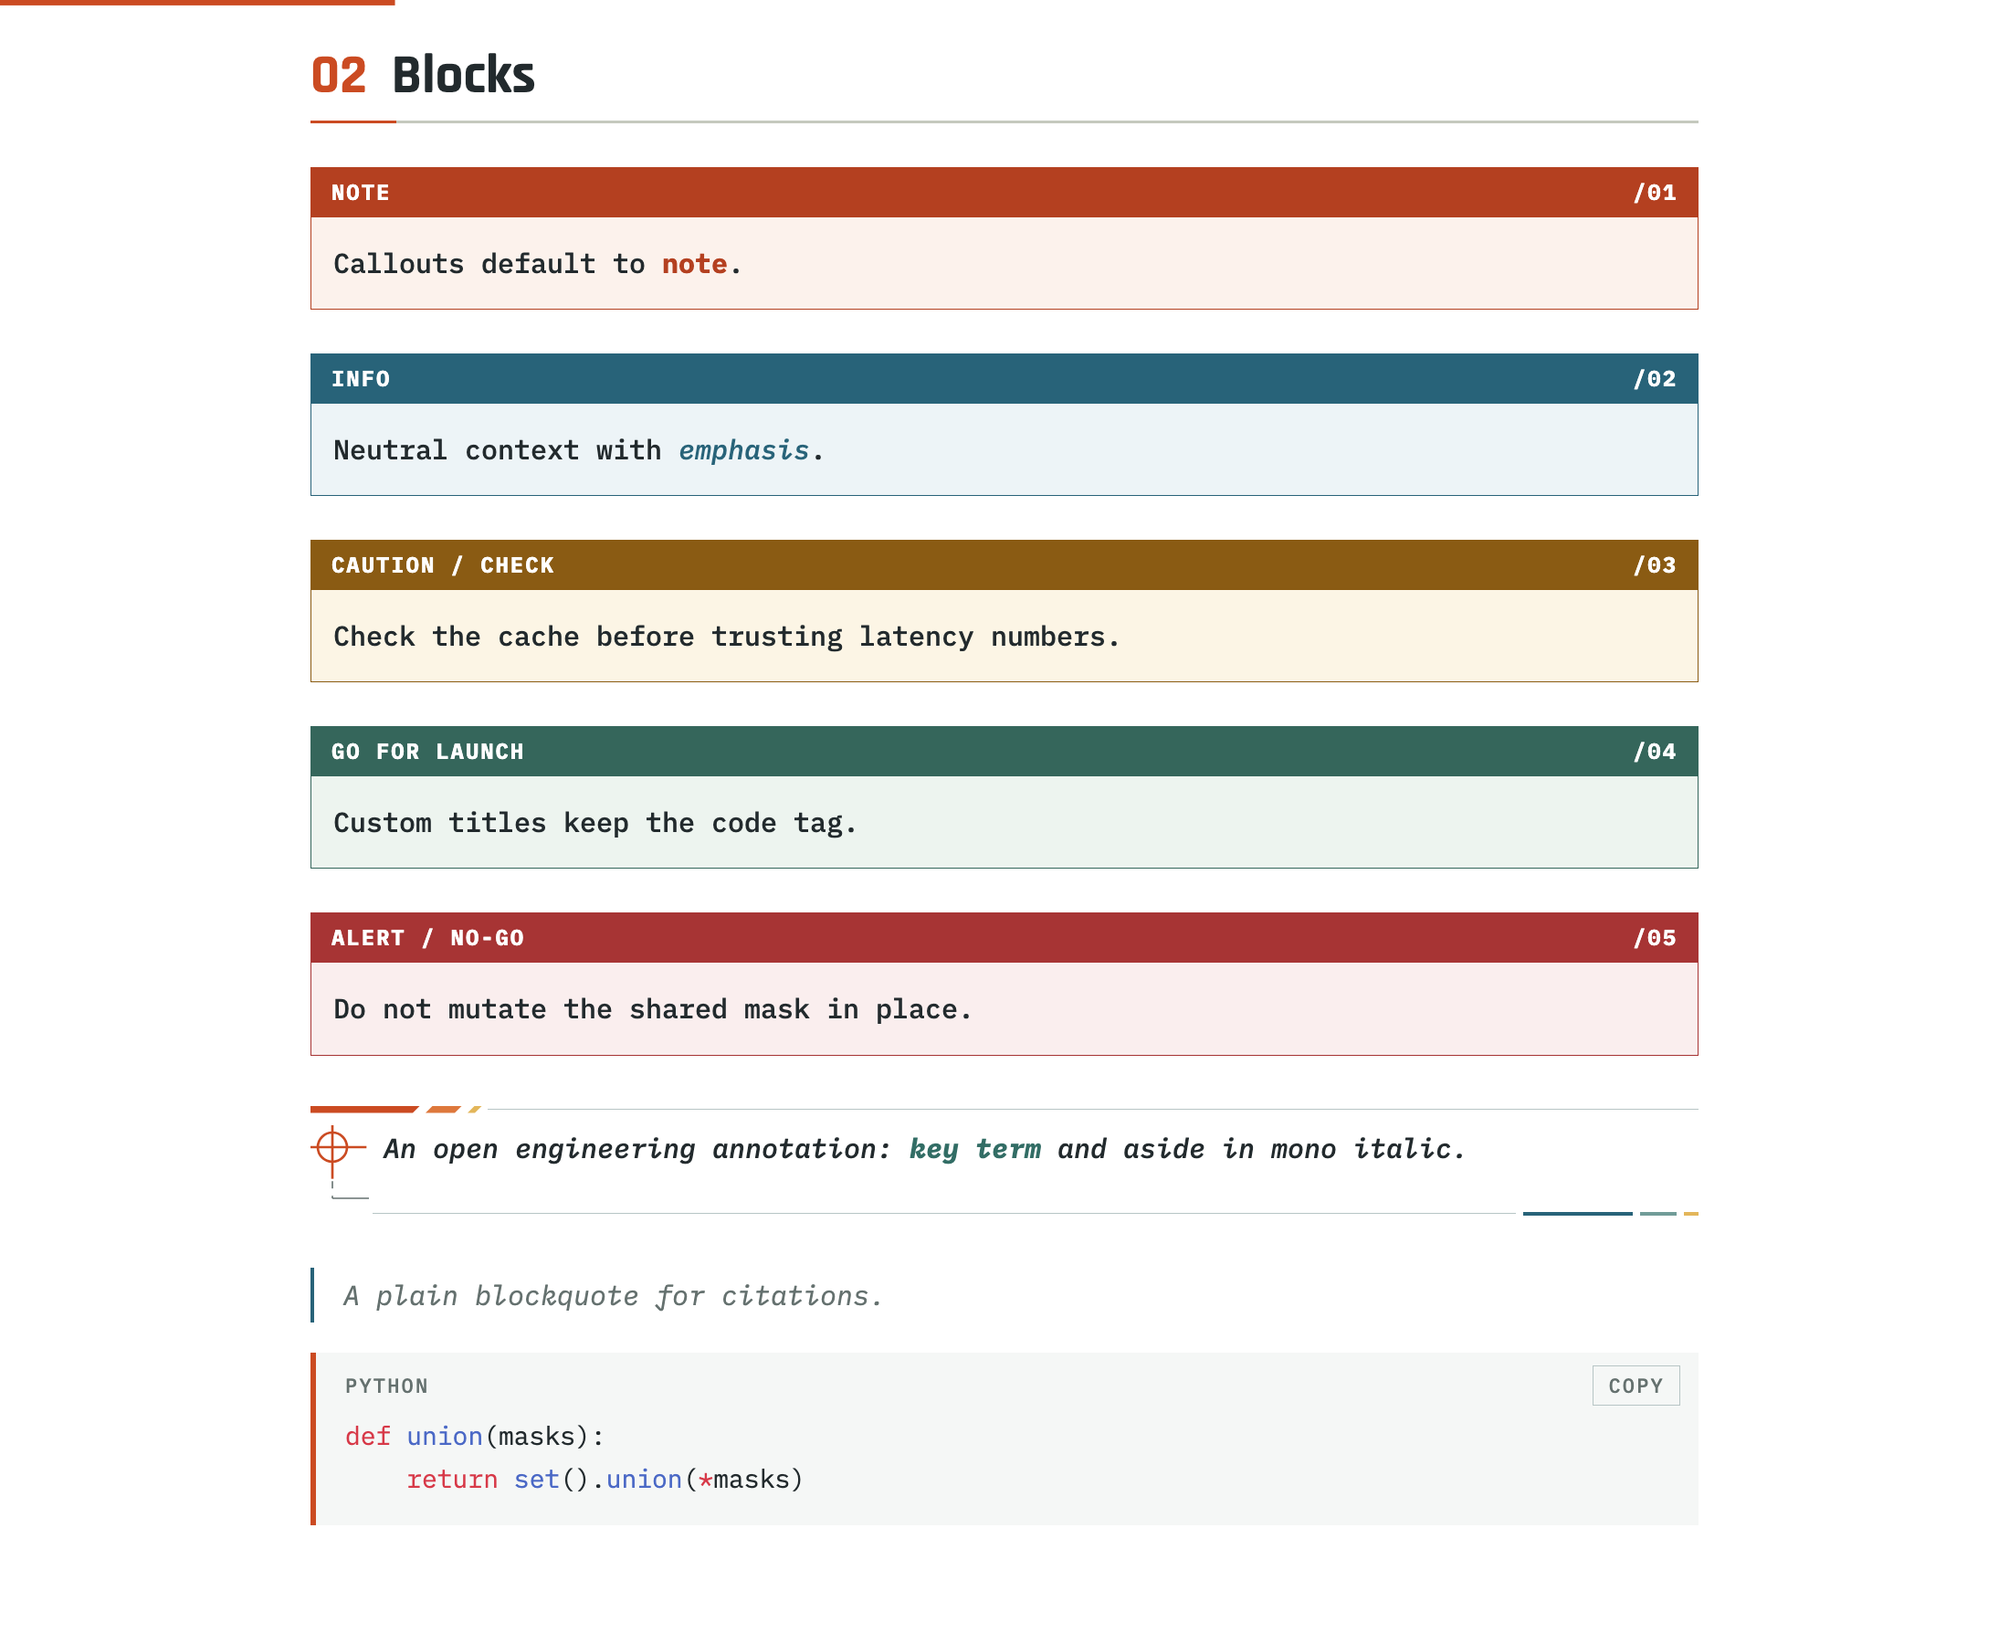
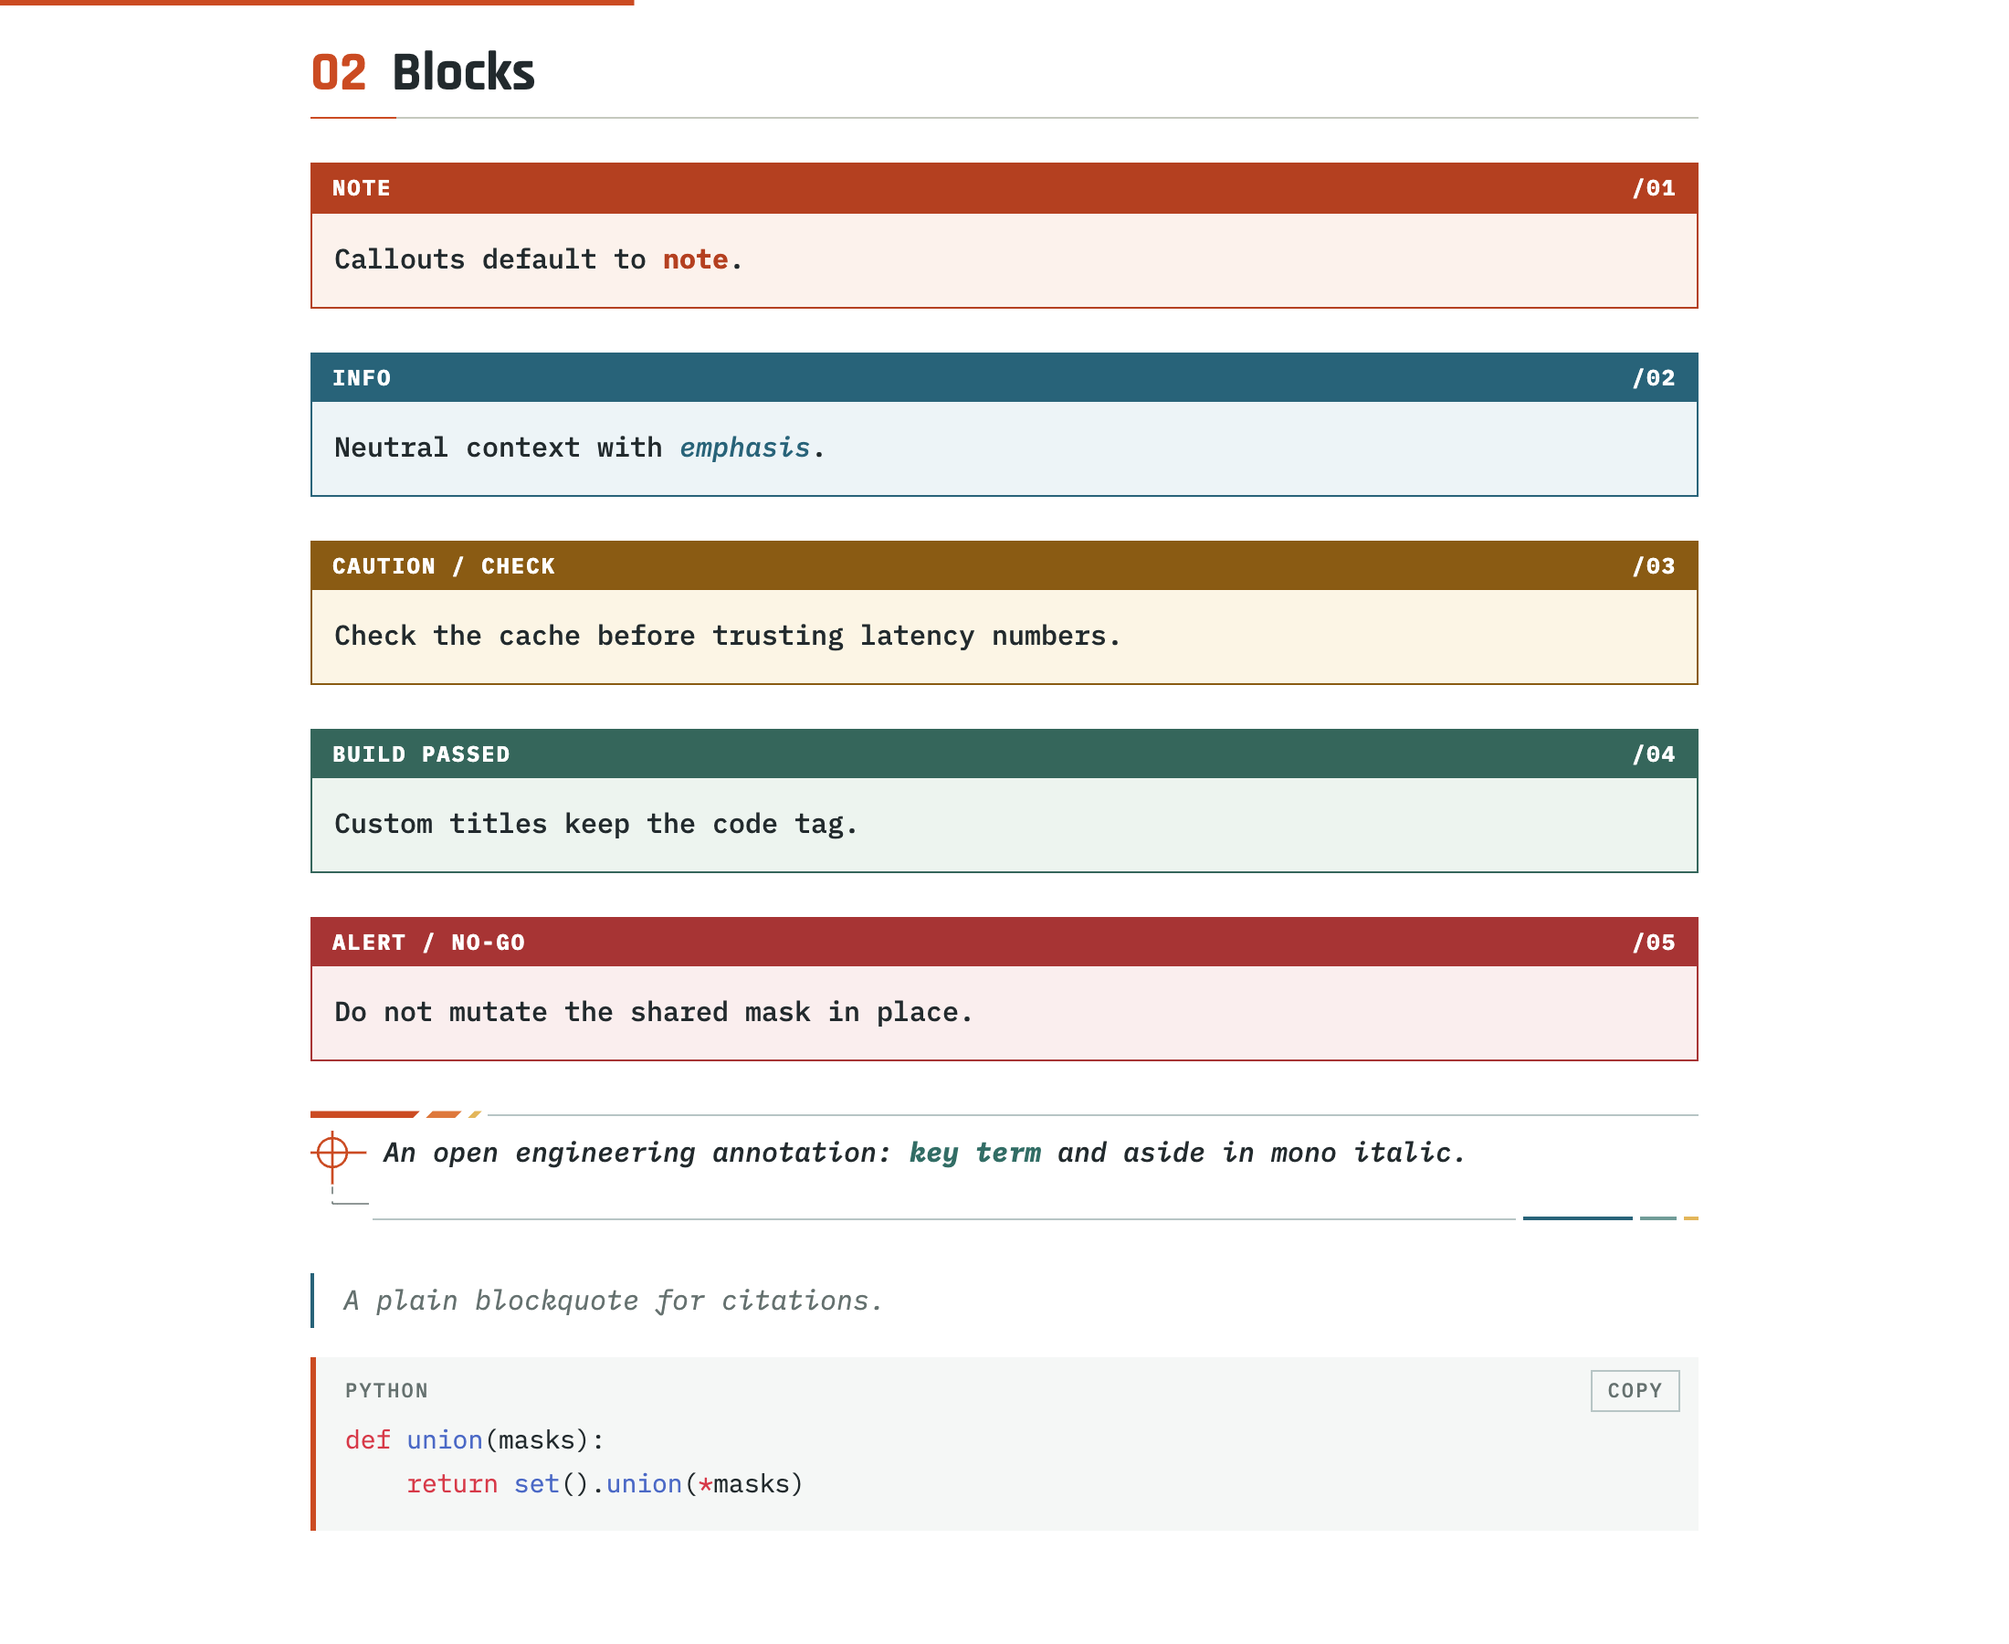
docs: rewrite README features in plain terms and refresh screenshots

diff --git a/README.md b/README.md
@@ -4,9 +4,9 @@
 
 # NASApunk
 
-**A blog theme for [Tola](https://github.com/tola-rs/tola-ssg), built on the NASApunk design.**
+**A NASApunk-style blog theme for [Tola](https://github.com/tola-rs/tola-ssg).**
 
-Document numbers, mission-time archives, telemetry-channel tags and figures drawn by Typst, in a muted aerospace palette for day and night.
+Write posts in Typst. Figures, diagrams and math render as inline SVG in the theme colours, by day and by night.
 
 [![Build](https://github.com/KKKZOZ/tola-theme-nasapunk/actions/workflows/build.yml/badge.svg)](https://github.com/KKKZOZ/tola-theme-nasapunk/actions/workflows/build.yml)
 [![Tola](https://img.shields.io/badge/Tola-0.8%2B-cb4b22)](https://github.com/tola-rs/tola-ssg)
@@ -15,7 +15,7 @@ Document numbers, mission-time archives, telemetry-channel tags and figures draw
 
 **English** · [简体中文](README.zh-CN.md)
 
-**[Live demo](https://kkkzoz.github.io/tola-theme-nasapunk/)** · [Quick start](#quick-start) · [Features](#features) · [Gallery](#gallery) · [Configuration](#configuration) · [Writing](#writing-posts) · [Deployment](#deployment)
+**[Live demo](https://kkkzoz.github.io/tola-theme-nasapunk/)**
 
 <br>
 
@@ -28,19 +28,19 @@ Document numbers, mission-time archives, telemetry-channel tags and figures draw
 <table>
   <tr>
     <td width="33%" valign="top">
-      <img src="docs/features/report.png" alt="Post header with document control block"><br>
-      <b>Report header</b><br>
-      <sub>Doc number, date, GMT day and reading time on every post.</sub>
+      <img src="docs/features/report.png" alt="Post header with document number and date"><br>
+      <b>Post header</b><br>
+      <sub>Document number, date, day of year and reading time on every post.</sub>
     </td>
     <td width="33%" valign="top">
-      <img src="docs/features/archive.png" alt="Archive density chart"><br>
-      <b>Flight-log archive</b><br>
-      <sub>Years in mission time over a posts-per-month chart.</sub>
+      <img src="docs/features/archive.png" alt="Archive page with a posts-per-month chart"><br>
+      <b>Archive</b><br>
+      <sub>Posts grouped by year, with a posts-per-month chart.</sub>
     </td>
     <td width="33%" valign="top">
-      <img src="docs/features/tags.png" alt="Tag channel index"><br>
-      <b>Channel-index tags</b><br>
-      <sub>Every tag a channel, with a level meter.</sub>
+      <img src="docs/features/tags.png" alt="Tags page"><br>
+      <b>Tags</b><br>
+      <sub>Every tag with its post count and posts.</sub>
     </td>
   </tr>
   <tr>
@@ -57,7 +57,7 @@ Document numbers, mission-time archives, telemetry-channel tags and figures draw
     <td width="33%" valign="top">
       <img src="docs/features/callouts.png" alt="Callouts"><br>
       <b>Callouts</b><br>
-      <sub>Five instrument-panel kinds, plus annotations.</sub>
+      <sub>Five kinds, plus annotations.</sub>
     </td>
   </tr>
   <tr>
@@ -74,59 +74,37 @@ Document numbers, mission-time archives, telemetry-channel tags and figures draw
     <td width="33%" valign="top">
       <img src="docs/features/lost.png" alt="404 page"><br>
       <b>404</b><br>
-      <sub>A loss-of-signal page for missing addresses.</sub>
+      <sub>A custom page for missing addresses.</sub>
     </td>
   </tr>
 </table>
 
-Also: day / night theme that follows the system · endnotes · copy buttons on
-code and headings · reading progress bar · Open Graph tags · build-time checks
-for links, images and anchors · a layout that holds down to phone width.
+The theme also follows the system's day / night setting, collects footnotes
+as endnotes, adds copy buttons to code blocks and headings, and fails the
+build on broken links, images and section anchors.
 
-## Gallery
+## Screenshots
 
 <table>
   <tr>
     <td width="50%"><img src="docs/screenshots/post.png" alt="Post page"></td>
-    <td width="50%"><img src="docs/screenshots/archive.png" alt="Archive page"></td>
+    <td width="50%"><img src="docs/screenshots/cetz-dark.png" alt="A CeTZ figure, night theme"></td>
   </tr>
   <tr>
-    <td align="center"><b>Post</b> · document control block, series and contents</td>
-    <td align="center"><b>Archive</b> · flight log with a density chart</td>
+    <td align="center">Post</td>
+    <td align="center">A CeTZ figure, night theme</td>
   </tr>
   <tr>
-    <td><img src="docs/screenshots/tags.png" alt="Tags page, night theme"></td>
-    <td><img src="docs/screenshots/search.png" alt="Search page, night theme"></td>
-  </tr>
-  <tr>
-    <td align="center"><b>Tags</b> · channel index with level meters</td>
-    <td align="center"><b>Search</b> · Pagefind, with document numbers</td>
-  </tr>
-  <tr>
-    <td><img src="docs/screenshots/cetz.png" alt="A CeTZ orbit diagram"></td>
-    <td><img src="docs/screenshots/cetz-dark.png" alt="A CeTZ bit-layout diagram, night theme"></td>
-  </tr>
-  <tr>
-    <td align="center"><b>CeTZ</b> · arcs, ellipses and a data panel</td>
-    <td align="center"><b>CeTZ at night</b> · grids, zooms and Bézier routes</td>
-  </tr>
-  <tr>
-    <td><img src="docs/screenshots/components.png" alt="Callouts and annotations"></td>
-    <td><img src="docs/screenshots/404.png" alt="404 page, night theme"></td>
-  </tr>
-  <tr>
-    <td align="center"><b>Components</b> · callouts, hint, quote, code</td>
-    <td align="center"><b>404</b> · loss of signal</td>
-  </tr>
-  <tr>
-    <td colspan="2" align="center">
-      <img src="docs/screenshots/mobile-light.png" width="32%" alt="Home page on a phone">
+    <td><img src="docs/screenshots/components.png" alt="Callouts and code"></td>
+    <td align="center">
+      <img src="docs/screenshots/mobile-light.png" width="45%" alt="Home page on a phone">
       &nbsp;
-      <img src="docs/screenshots/mobile-dark.png" width="32%" alt="Post page on a phone, night theme">
+      <img src="docs/screenshots/mobile-dark.png" width="45%" alt="Post page on a phone, night theme">
     </td>
   </tr>
   <tr>
-    <td colspan="2" align="center"><b>Mobile</b> · the same layout down to phone width</td>
+    <td align="center">Callouts and code</td>
+    <td align="center">On a phone, day and night</td>
   </tr>
 </table>
 
@@ -191,7 +169,7 @@ path suggests: `content/posts/notes/cache.typ` → `/posts/notes/cache/`.
   date: "2026-10-18",
   summary: "One line for the post list, search results and link previews.",
   tags: ("systems", "notes"),
-  series: "Flight Manual",
+  series: "Theme Tour",
 ))
 
 = First section
@@ -224,14 +202,14 @@ Open `/lab/style-reference/` for every element the theme styles.
 #import "/utils/ui.typ": callout, xref
 #import "/utils/diagram.typ": flow, n
 
-#callout(kind: "success", title: [GO FOR LAUNCH])[All systems nominal.]
+#callout(kind: "success")[The build passed.]
 
 #flow(n[Source], [compile], n([HTML], tone: "accent"))
 
 See #xref("cetz-figures") for a full CeTZ example.
 ```
 
-The example posts show each module in use: `content/posts/flight-manual/`
+The example posts show each module in use: `content/posts/theme-tour/`
 for callouts, footnotes, flows and timelines, `content/posts/figure-kit.typ`
 for every helper in `utils/figure.typ` with its output and signature, and
 `content/posts/cetz-figures.typ` for complete CeTZ figures built with them.

diff --git a/README.zh-CN.md b/README.zh-CN.md
@@ -4,9 +4,9 @@
 
 # NASApunk
 
-**一个 [Tola](https://github.com/tola-rs/tola-ssg) 博客主题，采用 NASApunk 设计风格。**
+**一个 NASApunk 风格的 [Tola](https://github.com/tola-rs/tola-ssg) 博客主题。**
 
-文档编号、任务时间线式的归档、遥测信道式的标签，以及由 Typst 绘制的插图，配一套日夜两用的低饱和航天配色。
+用 Typst 写文章，插图、图表和公式渲染为内联 SVG，跟随主题的日夜配色。
 
 [![Build](https://github.com/KKKZOZ/tola-theme-nasapunk/actions/workflows/build.yml/badge.svg)](https://github.com/KKKZOZ/tola-theme-nasapunk/actions/workflows/build.yml)
 [![Tola](https://img.shields.io/badge/Tola-0.8%2B-cb4b22)](https://github.com/tola-rs/tola-ssg)
@@ -15,7 +15,7 @@
 
 [English](README.md) · **简体中文**
 
-**[在线演示](https://kkkzoz.github.io/tola-theme-nasapunk/)** · [快速开始](#快速开始) · [特性](#特性) · [截图](#截图) · [配置](#配置) · [写文章](#写文章) · [部署](#部署)
+**[在线演示](https://kkkzoz.github.io/tola-theme-nasapunk/)**
 
 <br>
 
@@ -28,19 +28,19 @@
 <table>
   <tr>
     <td width="33%" valign="top">
-      <img src="docs/features/report.png" alt="带文档控制表的文章头部"><br>
-      <b>报告式文章头</b><br>
+      <img src="docs/features/report.png" alt="带文档编号和日期的文章头部"><br>
+      <b>文章头</b><br>
       <sub>每篇文章都有文档编号、日期、年积日和阅读时间。</sub>
     </td>
     <td width="33%" valign="top">
-      <img src="docs/features/archive.png" alt="归档页的密度图"><br>
-      <b>飞行日志式归档</b><br>
-      <sub>按任务时间编年，附每月发文密度图。</sub>
+      <img src="docs/features/archive.png" alt="带每月发文图的归档页"><br>
+      <b>归档</b><br>
+      <sub>按年份分组，附每月发文图。</sub>
     </td>
     <td width="33%" valign="top">
-      <img src="docs/features/tags.png" alt="标签信道索引"><br>
-      <b>信道式标签</b><br>
-      <sub>每个标签是一个信道，带电平条。</sub>
+      <img src="docs/features/tags.png" alt="标签页"><br>
+      <b>标签</b><br>
+      <sub>每个标签的文章数与文章列表。</sub>
     </td>
   </tr>
   <tr>
@@ -57,7 +57,7 @@
     <td width="33%" valign="top">
       <img src="docs/features/callouts.png" alt="提示框"><br>
       <b>提示框</b><br>
-      <sub>五种仪表盘风格的提示框，外加工程标注。</sub>
+      <sub>五种提示框，外加标注。</sub>
     </td>
   </tr>
   <tr>
@@ -74,57 +74,35 @@
     <td width="33%" valign="top">
       <img src="docs/features/lost.png" alt="404 页面"><br>
       <b>404</b><br>
-      <sub>地址不存在时显示"信号丢失"页面。</sub>
+      <sub>地址不存在时显示的自定义页面。</sub>
     </td>
   </tr>
 </table>
 
-此外还有：跟随系统的日夜主题 · 尾注 · 代码块与标题的复制按钮 · 阅读进度条 · Open Graph 标签 · 构建时检查链接、图片和锚点 · 一直适配到手机宽度的布局。
+此外，主题会跟随系统切换日夜配色，把脚注汇总为尾注，给代码块和标题加上复制按钮，并在链接、图片或章节锚点失效时让构建报错。
 
 ## 截图
 
 <table>
   <tr>
     <td width="50%"><img src="docs/screenshots/post.png" alt="文章页"></td>
-    <td width="50%"><img src="docs/screenshots/archive.png" alt="归档页"></td>
+    <td width="50%"><img src="docs/screenshots/cetz-dark.png" alt="CeTZ 插图，夜间主题"></td>
   </tr>
   <tr>
-    <td align="center"><b>文章</b> · 文档控制表、系列导航与目录</td>
-    <td align="center"><b>归档</b> · 飞行日志与密度图</td>
+    <td align="center">文章</td>
+    <td align="center">CeTZ 插图（夜间）</td>
   </tr>
   <tr>
-    <td><img src="docs/screenshots/tags.png" alt="标签页，夜间主题"></td>
-    <td><img src="docs/screenshots/search.png" alt="搜索页，夜间主题"></td>
-  </tr>
-  <tr>
-    <td align="center"><b>标签</b> · 带电平条的信道索引</td>
-    <td align="center"><b>搜索</b> · Pagefind，结果附文档编号</td>
-  </tr>
-  <tr>
-    <td><img src="docs/screenshots/cetz.png" alt="CeTZ 绘制的轨道图"></td>
-    <td><img src="docs/screenshots/cetz-dark.png" alt="CeTZ 绘制的比特布局图，夜间主题"></td>
-  </tr>
-  <tr>
-    <td align="center"><b>CeTZ</b> · 圆弧、椭圆与数据面板</td>
-    <td align="center"><b>CeTZ（夜间）</b> · 网格、放大与贝塞尔曲线</td>
-  </tr>
-  <tr>
-    <td><img src="docs/screenshots/components.png" alt="提示框与标注"></td>
-    <td><img src="docs/screenshots/404.png" alt="404 页面，夜间主题"></td>
-  </tr>
-  <tr>
-    <td align="center"><b>组件</b> · 提示框、标注、引用与代码块</td>
-    <td align="center"><b>404</b> · 信号丢失</td>
-  </tr>
-  <tr>
-    <td colspan="2" align="center">
-      <img src="docs/screenshots/mobile-light.png" width="32%" alt="手机上的首页">
+    <td><img src="docs/screenshots/components.png" alt="提示框与代码块"></td>
+    <td align="center">
+      <img src="docs/screenshots/mobile-light.png" width="45%" alt="手机上的首页">
       &nbsp;
-      <img src="docs/screenshots/mobile-dark.png" width="32%" alt="手机上的文章页，夜间主题">
+      <img src="docs/screenshots/mobile-dark.png" width="45%" alt="手机上的文章页，夜间主题">
     </td>
   </tr>
   <tr>
-    <td colspan="2" align="center"><b>移动端</b> · 同一套布局一直适配到手机宽度</td>
+    <td align="center">提示框与代码块</td>
+    <td align="center">手机端（日间 / 夜间）</td>
   </tr>
 </table>
 
@@ -183,7 +161,7 @@ tola dev
   date: "2026-10-18",
   summary: "一句话简介，用于文章列表、搜索结果和链接预览。",
   tags: ("systems", "notes"),
-  series: "Flight Manual",
+  series: "Theme Tour",
 ))
 
 = 第一节
@@ -215,14 +193,14 @@ tola dev
 #import "/utils/ui.typ": callout, xref
 #import "/utils/diagram.typ": flow, n
 
-#callout(kind: "success", title: [GO FOR LAUNCH])[各系统正常。]
+#callout(kind: "success")[构建通过。]
 
 #flow(n[Source], [compile], n([HTML], tone: "accent"))
 
 完整的 CeTZ 示例见 #xref("cetz-figures")。
 ```
 
-示例文章里每个模块都有用到：`content/posts/flight-manual/` 演示提示框、脚注、流程图和时间线；`content/posts/figure-kit.typ` 逐个介绍 `utils/figure.typ` 里的函数，附效果图和函数签名；`content/posts/cetz-figures.typ` 是用这些函数画出的完整 CeTZ 图。
+示例文章里每个模块都有用到：`content/posts/theme-tour/` 演示提示框、脚注、流程图和时间线；`content/posts/figure-kit.typ` 逐个介绍 `utils/figure.typ` 里的函数，附效果图和函数签名；`content/posts/cetz-figures.typ` 是用这些函数画出的完整 CeTZ 图。
 
 ## 部署
 
